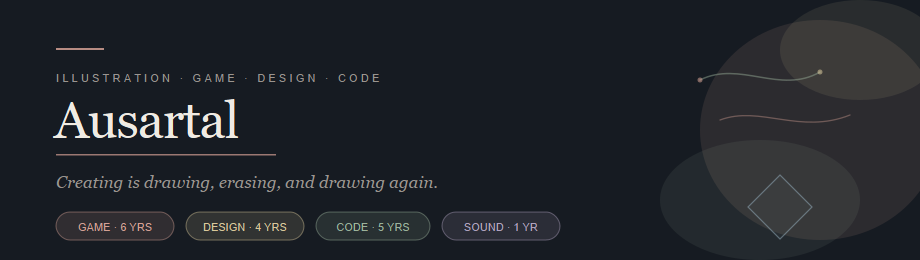
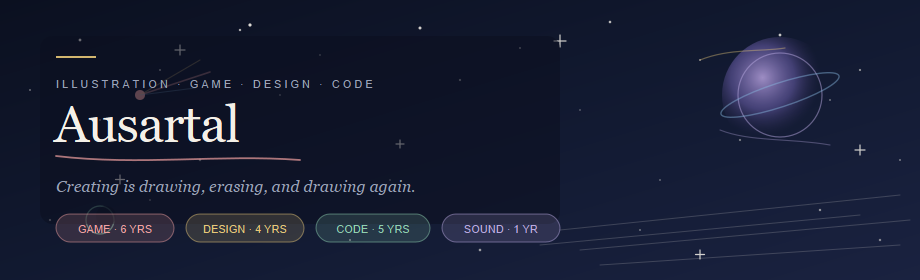
Space x manga hero: stars, planet, comet, readable type scrim

diff --git a/gen_assets.py b/gen_assets.py
@@ -3,61 +3,129 @@ from pathlib import Path
 
 OUT = Path(r"C:\Users\ahmad\Documents\College\Subjects\Data Mining\github-profile\assets")
 
-INK = "#161B22"
-PAPER = "#F0EBE3"
-MUTED = "#9A9590"
-CORAL = "#D4A094"
-BUTTER = "#D9C89A"
-SAGE = "#9BB39B"
-LILAC = "#B0A3C0"
-SKY = "#9BB5C4"
+# Space × manga: deep navy, stars, orbits, speed lines — text stays clear.
+BG = "#0B1020"
+BG2 = "#121A32"
+PAPER = "#F4F0E8"
+MUTED = "#9AA3B8"
+LILAC = "#B8A8E0"
+CORAL = "#F0A0A0"
+SAGE = "#8FD0B0"
+GOLD = "#E8C878"
+SKY = "#88B8E0"
 
-# Professional: clean type block left, decoration only in empty space.
-# No washes under text. No overlap.
-hero = f'''<svg xmlns="http://www.w3.org/2000/svg" width="920" height="260" viewBox="0 0 920 260">
-  <rect width="920" height="260" fill="{INK}"/>
+hero = f'''<svg xmlns="http://www.w3.org/2000/svg" width="920" height="280" viewBox="0 0 920 280">
+  <defs>
+    <linearGradient id="sky" x1="0" y1="0" x2="1" y2="1">
+      <stop offset="0%" stop-color="#0B1020"/>
+      <stop offset="55%" stop-color="#121A32"/>
+      <stop offset="100%" stop-color="#1A2240"/>
+    </linearGradient>
+    <radialGradient id="planet" cx="35%" cy="35%">
+      <stop offset="0%" stop-color="#C8B0F0" stop-opacity="0.9"/>
+      <stop offset="55%" stop-color="#7B6BC0" stop-opacity="0.55"/>
+      <stop offset="100%" stop-color="#3A2F60" stop-opacity="0"/>
+    </radialGradient>
+  </defs>
 
-  <!-- subtle side washes ONLY on right empty zone -->
-  <ellipse cx="820" cy="130" rx="120" ry="110" fill="{CORAL}" opacity="0.12"/>
-  <ellipse cx="760" cy="200" rx="100" ry="60" fill="{SAGE}" opacity="0.1"/>
-  <ellipse cx="860" cy="50" rx="80" ry="50" fill="{BUTTER}" opacity="0.1"/>
+  <rect width="920" height="280" fill="url(#sky)"/>
 
-  <!-- thin left rule -->
-  <rect x="56" y="48" width="48" height="2" fill="{CORAL}" opacity="0.85"/>
-
-  <!-- overline -->
-  <text x="56" y="82" font-family="ui-monospace, SFMono-Regular, Menlo, monospace" font-size="11" fill="{MUTED}" letter-spacing="3.2">ILLUSTRATION  ·  GAME  ·  DESIGN  ·  CODE</text>
-
-  <!-- name -->
-  <text x="54" y="138" font-family="Georgia, 'Times New Roman', serif" font-size="52" fill="{PAPER}" letter-spacing="-1.2">Ausartal</text>
-
-  <!-- single clean underline -->
-  <rect x="56" y="154" width="220" height="1.5" fill="{CORAL}" opacity="0.7"/>
-
-  <!-- tagline -->
-  <text x="56" y="188" font-family="Georgia, 'Times New Roman', serif" font-style="italic" font-size="17" fill="{MUTED}">Creating is drawing, erasing, and drawing again.</text>
-
-  <!-- chips in clear row, no decoration under them -->
-  <g font-family="ui-monospace, SFMono-Regular, Menlo, monospace" font-size="11">
-    <rect x="56" y="212" width="118" height="28" rx="14" fill="{CORAL}" fill-opacity="0.14" stroke="{CORAL}" stroke-opacity="0.45"/>
-    <text x="115" y="231" text-anchor="middle" fill="{CORAL}">GAME · 6 YRS</text>
-
-    <rect x="186" y="212" width="118" height="28" rx="14" fill="{BUTTER}" fill-opacity="0.14" stroke="{BUTTER}" stroke-opacity="0.45"/>
-    <text x="245" y="231" text-anchor="middle" fill="{BUTTER}">DESIGN · 4 YRS</text>
-
-    <rect x="316" y="212" width="114" height="28" rx="14" fill="{SAGE}" fill-opacity="0.14" stroke="{SAGE}" stroke-opacity="0.45"/>
-    <text x="373" y="231" text-anchor="middle" fill="{SAGE}">CODE · 5 YRS</text>
-
-    <rect x="442" y="212" width="118" height="28" rx="14" fill="{LILAC}" fill-opacity="0.14" stroke="{LILAC}" stroke-opacity="0.45"/>
-    <text x="501" y="231" text-anchor="middle" fill="{LILAC}">SOUND · 1 YR</text>
+  <!-- stars -->
+  <g fill="#F4F0E8">
+    <circle cx="80" cy="40" r="1.4" opacity="0.9"/>
+    <circle cx="160" cy="70" r="1" opacity="0.55"/>
+    <circle cx="240" cy="30" r="1.2" opacity="0.7"/>
+    <circle cx="320" cy="55" r="0.9" opacity="0.45"/>
+    <circle cx="420" cy="28" r="1.5" opacity="0.85"/>
+    <circle cx="520" cy="48" r="1" opacity="0.5"/>
+    <circle cx="610" cy="22" r="1.3" opacity="0.75"/>
+    <circle cx="700" cy="60" r="1" opacity="0.5"/>
+    <circle cx="780" cy="35" r="1.4" opacity="0.8"/>
+    <circle cx="860" cy="70" r="1.1" opacity="0.55"/>
+    <circle cx="100" cy="120" r="1" opacity="0.4"/>
+    <circle cx="200" cy="160" r="1.2" opacity="0.55"/>
+    <circle cx="350" cy="240" r="1" opacity="0.45"/>
+    <circle cx="480" cy="250" r="1.3" opacity="0.6"/>
+    <circle cx="640" cy="230" r="1" opacity="0.4"/>
+    <circle cx="820" cy="210" r="1.2" opacity="0.55"/>
+    <circle cx="50" cy="220" r="1.1" opacity="0.5"/>
+    <circle cx="900" cy="160" r="1" opacity="0.45"/>
+    <circle cx="280" cy="95" r="1" opacity="0.35"/>
+    <circle cx="460" cy="80" r="1.1" opacity="0.5"/>
+    <circle cx="580" cy="110" r="0.9" opacity="0.35"/>
+    <circle cx="740" cy="140" r="1.1" opacity="0.45"/>
+    <circle cx="880" cy="240" r="1.2" opacity="0.5"/>
+    <circle cx="30" cy="90" r="1" opacity="0.4"/>
+    <circle cx="390" cy="180" r="1" opacity="0.35"/>
+    <circle cx="660" cy="180" r="1" opacity="0.35"/>
+    <circle cx="150" cy="200" r="1" opacity="0.35"/>
+    <circle cx="250" cy="25" r="1.6" opacity="0.9"/>
+    <circle cx="830" cy="100" r="1" opacity="0.4"/>
   </g>
 
-  <!-- quiet marks in right empty area only -->
-  <path d="M700 80 C 740 60, 780 95, 820 72" stroke="{SAGE}" stroke-width="1.5" stroke-linecap="round" fill="none" opacity="0.45"/>
-  <path d="M720 120 C 760 105, 800 135, 850 115" stroke="{CORAL}" stroke-width="1.3" stroke-linecap="round" fill="none" opacity="0.4"/>
-  <circle cx="700" cy="80" r="2.5" fill="{CORAL}" opacity="0.55"/>
-  <circle cx="820" cy="72" r="2.5" fill="{BUTTER}" opacity="0.55"/>
-  <path d="M780 175 L 812 207 L 780 239 L 748 207 Z" stroke="{SKY}" stroke-width="1.2" fill="{SKY}" fill-opacity="0.08" opacity="0.5"/>
+  <!-- manga sparkle / cross stars -->
+  <g stroke="#F4F0E8" stroke-width="1.2" stroke-linecap="round" opacity="0.85">
+    <path d="M180 45 L 180 55 M 175 50 L 185 50"/>
+    <path d="M560 35 L 560 47 M 554 41 L 566 41"/>
+    <path d="M860 145 L 860 155 M 855 150 L 865 150"/>
+    <path d="M120 175 L 120 184 M 115.5 179.5 L 124.5 179.5"/>
+    <path d="M700 250 L 700 259 M 695.5 254.5 L 704.5 254.5"/>
+    <path d="M400 140 L 400 148 M 396 144 L 404 144"/>
+  </g>
+
+  <!-- planet (manga-style shaded ball) -->
+  <circle cx="780" cy="95" r="58" fill="url(#planet)" opacity="0.85"/>
+  <circle cx="780" cy="95" r="42" fill="none" stroke="{LILAC}" stroke-width="1.2" opacity="0.5"/>
+  <ellipse cx="780" cy="95" rx="62" ry="12" fill="none" stroke="{SKY}" stroke-width="1.4" opacity="0.45" transform="rotate(-18 780 95)"/>
+  <!-- planet speed-line arcs -->
+  <path d="M700 60 C 730 48, 760 52, 785 48" stroke="{GOLD}" stroke-width="1.2" fill="none" opacity="0.4" stroke-linecap="round"/>
+  <path d="M720 130 C 750 142, 790 138, 830 145" stroke="{LILAC}" stroke-width="1.1" fill="none" opacity="0.35" stroke-linecap="round"/>
+
+  <!-- comet -->
+  <g opacity="0.8">
+    <circle cx="140" cy="95" r="5" fill="{CORAL}"/>
+    <path d="M140 95 L 210 72" stroke="{CORAL}" stroke-width="1.6" stroke-linecap="round" opacity="0.55"/>
+    <path d="M140 95 L 200 60" stroke="{GOLD}" stroke-width="1.1" stroke-linecap="round" opacity="0.4"/>
+    <path d="M140 95 L 195 88" stroke="{SKY}" stroke-width="1" stroke-linecap="round" opacity="0.35"/>
+  </g>
+
+  <!-- manga speed lines bottom-right empty zone -->
+  <g stroke="{PAPER}" stroke-width="1" stroke-linecap="round" opacity="0.18">
+    <path d="M560 230 L 900 195"/>
+    <path d="M580 250 L 910 220"/>
+    <path d="M600 265 L 900 245"/>
+    <path d="M540 245 L 860 215"/>
+  </g>
+
+  <!-- small moon -->
+  <circle cx="100" cy="220" r="14" fill="none" stroke="{SAGE}" stroke-width="1.3" opacity="0.5"/>
+  <circle cx="106" cy="216" r="10" fill="{BG}" opacity="0.55"/>
+
+  <!-- ── TEXT BLOCK: solid scrim so never overlapped by art ── -->
+  <rect x="40" y="36" width="520" height="188" rx="12" fill="#0B1020" opacity="0.55"/>
+
+  <rect x="56" y="56" width="40" height="2" fill="{GOLD}" opacity="0.9"/>
+  <text x="56" y="88" font-family="ui-monospace, SFMono-Regular, Menlo, monospace" font-size="11" fill="{MUTED}" letter-spacing="3">ILLUSTRATION  ·  GAME  ·  DESIGN  ·  CODE</text>
+
+  <text x="54" y="142" font-family="Georgia, 'Times New Roman', serif" font-size="52" fill="{PAPER}" letter-spacing="-1.1">Ausartal</text>
+
+  <path d="M56 156 C 140 166, 220 154, 300 160" stroke="{CORAL}" stroke-width="1.8" stroke-linecap="round" fill="none" opacity="0.7"/>
+
+  <text x="56" y="192" font-family="Georgia, 'Times New Roman', serif" font-style="italic" font-size="16" fill="{MUTED}">Creating is drawing, erasing, and drawing again.</text>
+
+  <g font-family="ui-monospace, SFMono-Regular, Menlo, monospace" font-size="11">
+    <rect x="56" y="214" width="118" height="28" rx="14" fill="{CORAL}" fill-opacity="0.16" stroke="{CORAL}" stroke-opacity="0.5"/>
+    <text x="115" y="233" text-anchor="middle" fill="{CORAL}">GAME · 6 YRS</text>
+
+    <rect x="186" y="214" width="118" height="28" rx="14" fill="{GOLD}" fill-opacity="0.16" stroke="{GOLD}" stroke-opacity="0.5"/>
+    <text x="245" y="233" text-anchor="middle" fill="{GOLD}">DESIGN · 4 YRS</text>
+
+    <rect x="316" y="214" width="114" height="28" rx="14" fill="{SAGE}" fill-opacity="0.16" stroke="{SAGE}" stroke-opacity="0.5"/>
+    <text x="373" y="233" text-anchor="middle" fill="{SAGE}">CODE · 5 YRS</text>
+
+    <rect x="442" y="214" width="118" height="28" rx="14" fill="{LILAC}" fill-opacity="0.16" stroke="{LILAC}" stroke-opacity="0.5"/>
+    <text x="501" y="233" text-anchor="middle" fill="{LILAC}">SOUND · 1 YR</text>
+  </g>
 </svg>'''
 
 (OUT / "hero.svg").write_text(hero, encoding="utf-8")
